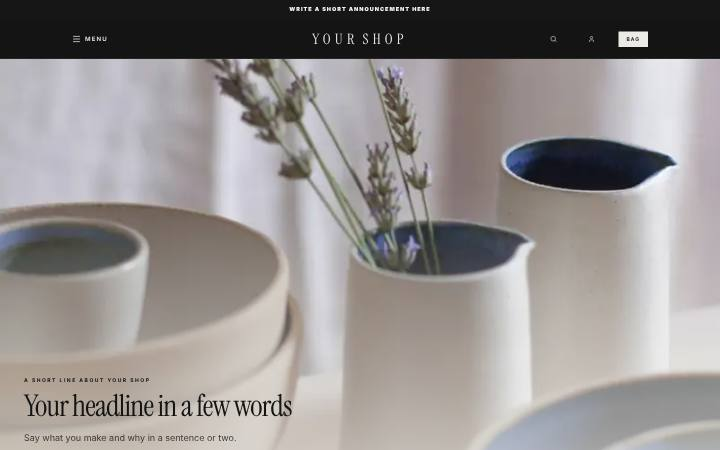
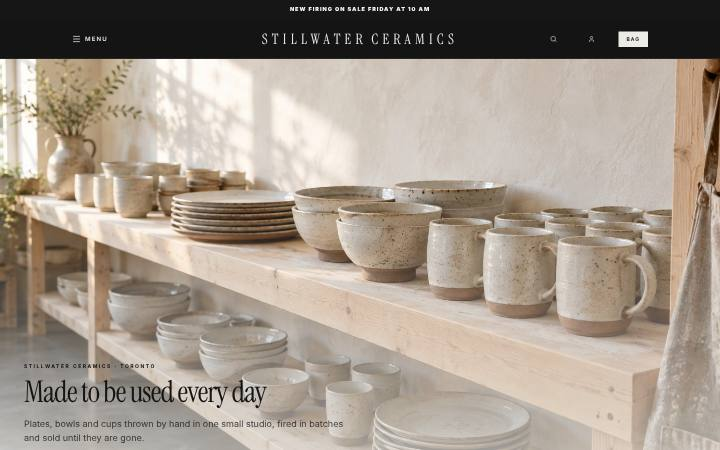
Starters: a matching photo set for each sample shop
Step 3 of the approved starters plan. Catalogue, Gallery, Warehouse,
Larder and Commission each get their own photos, made in one backdrop
and one light per starter, each showing the product it is named after.
Catalogue's old copies of Slow Season's photos are gone. The side-menu
header wraps a long shop name instead of cutting it off. Choose your
website pictures regenerated.

Claude-Session: https://claude.ai/code/session_01VZ5popADiQDpwvEpktGd8h

diff --git a/apps/shop/src/app/admin/studio/themeLibrary.ts b/apps/shop/src/app/admin/studio/themeLibrary.ts
@@ -717,16 +717,16 @@ export const THEME_LIBRARY = [
       starterPages: ["about", "shipping", "contact"],
       sampleBrand: "Margin Editions",
       sampleProducts: [
-        { title: "Field journal", price: 22, photo: "/starters/catalogue/book.jpg", category: "Paper", description: "Pocket-sized with dot-grid pages and a card cover that softens with use. Made in a family bindery." },
-        { title: "Night candle", price: 18, photo: "/starters/catalogue/candle.jpg", category: "Home", description: "Soy wax with cedar and smoke. A small candle for a reading lamp evening, about 25 hours." },
-        { title: "Studio mug", price: 36, photo: "/starters/catalogue/mug.jpg", category: "Kitchen", description: "A tall stoneware mug with a thumb rest, glazed inside and left raw at the foot." },
-        { title: "Reading throw", price: 120, photo: "/starters/catalogue/throw.jpg", category: "Home", description: "A soft wool and cotton throw, a little smaller than most, made for a chair and a book." },
-        { title: "Clay vase", price: 54, photo: "/starters/catalogue/still-life.jpg", category: "Home", description: "Coiled by hand from red clay and burnished smooth. Holds water and a few long stems." },
-        { title: "Collected essays, hardcover", price: 34, photo: "/starters/catalogue/book.jpg", category: "Books", description: "Eighteen short essays on making things by hand, cloth-bound with a printed jacket. 240 pages." },
+        { title: "Field journal", price: 22, photo: "/starters/catalogue/field-journal.jpg", category: "Paper", description: "Pocket-sized with dot-grid pages and a card cover that softens with use. Made in a family bindery." },
+        { title: "Night candle", price: 18, photo: "/starters/catalogue/night-candle.jpg", category: "Home", description: "Soy wax with cedar and smoke. A small candle for a reading lamp evening, about 25 hours." },
+        { title: "Studio mug", price: 36, photo: "/starters/catalogue/studio-mug.jpg", category: "Kitchen", description: "A tall stoneware mug with a thumb rest, glazed inside and left raw at the foot." },
+        { title: "Reading throw", price: 120, photo: "/starters/catalogue/reading-throw.jpg", category: "Home", description: "A soft wool and cotton throw, a little smaller than most, made for a chair and a book." },
+        { title: "Clay vase", price: 54, photo: "/starters/catalogue/clay-vase.jpg", category: "Home", description: "Coiled by hand from red clay and burnished smooth. Holds water and a few long stems." },
+        { title: "Collected essays, hardcover", price: 34, photo: "/starters/catalogue/essays.jpg", category: "Books", description: "Eighteen short essays on making things by hand, cloth-bound with a printed jacket. 240 pages." },
       ],
       sections: {
         heroPage: [
-          { type: "SplitOpeningSection", settings: { eyebrow: "Catalogue No. 14 \u00b7 Winter", title: "Small things,", accentWord: "well made.", body: "A numbered collection of paper, clay and cloth from small studios. Every piece is in stock and ships within two days.", imageUrl: "/starters/catalogue/still-life.jpg", imageAlt: "A clay vase and a field journal on a table", layout: "image-right", ctaText: "Enter the collection", ctaUrl: "/collections/all", captionText: "Clay vase, coiled by hand\nNo. 005" } },
+          { type: "SplitOpeningSection", settings: { eyebrow: "Catalogue No. 14 \u00b7 Winter", title: "Small things,", accentWord: "well made.", body: "A numbered collection of paper, clay and cloth from small studios. Every piece is in stock and ships within two days.", imageUrl: "/starters/catalogue/opening.jpg", imageAlt: "A clay vase and a field journal on a table", layout: "image-right", ctaText: "Enter the collection", ctaUrl: "/collections/all", captionText: "Clay vase, coiled by hand\nNo. 005" } },
           { type: "MarqueeSection", settings: { text: "Ships in two days \u25cf Wrapped by hand \u25cf Free returns for 30 days", separator: "\u25cf", still: true, colorSchemeId: "scheme-inverse", fontSize: 10, speed: 40, uppercase: true, bold: false, letterSpacing: 0.14 } },
           { type: "ProductShowcaseGridSection", settings: { overlayOpacity: 0, eyebrow: "The collection", title: "Everything in the shop", columnsDesktop: 3, columnsMobile: 2, imageAspectRatio: "1:1", showCategoryTag: false, showQuickAdd: true, grainOpacity: 0 } },
         ],
@@ -783,20 +783,20 @@ export const THEME_LIBRARY = [
       starterPages: ["about", "shipping", "contact"],
       sampleBrand: "Stillwater Ceramics",
       sampleProducts: [
-        { title: "Stoneware mug", price: 38, photo: "/samples/home/mug.webp", category: "Cups", description: "Thrown on the wheel and dipped in our speckled oat glaze. Every one is a little different. 300 ml." },
-        { title: "Nesting bowls, set of 3", price: 64, photo: "/samples/home/bowls.webp", category: "Bowls", description: "Three bowls that stack into one, for olives, salt and everything in between. Food and dishwasher safe." },
-        { title: "Espresso cup pair", price: 46, photo: "/samples/home/cups.webp", category: "Cups", description: "Two small cups with no handles, glazed inside and left raw outside so they sit warm in the hand." },
-        { title: "Pillar candle", price: 26, photo: "/samples/home/pillar-candle.webp", category: "Home", description: "Unscented beeswax poured into a tall pillar. Sits on any of our side plates." },
-        { title: "Speckled side plates, set of 4", price: 72, photo: "/samples/home/plates.webp", category: "Plates", description: "Four 20 cm plates with a soft rim, glazed in speckled white. Made for toast, cake and everyday lunches." },
-        { title: "Linen napkins, set of 4", price: 44, photo: "/samples/home/napkins.webp", category: "Table", description: "Stonewashed linen in warm sand, with mitred corners. They soften with every wash." },
+        { title: "Stoneware mug", price: 38, photo: "/starters/gallery/mug.jpg", category: "Cups", description: "Thrown on the wheel and dipped in our speckled oat glaze. Every one is a little different. 300 ml." },
+        { title: "Nesting bowls, set of 3", price: 64, photo: "/starters/gallery/bowls.jpg", category: "Bowls", description: "Three bowls that stack into one, for olives, salt and everything in between. Food and dishwasher safe." },
+        { title: "Espresso cup pair", price: 46, photo: "/starters/gallery/espresso-cups.jpg", category: "Cups", description: "Two small cups with no handles, glazed inside and left raw outside so they sit warm in the hand." },
+        { title: "Pillar candle", price: 26, photo: "/starters/gallery/pillar-candle.jpg", category: "Home", description: "Unscented beeswax poured into a tall pillar. Sits on any of our side plates." },
+        { title: "Speckled side plates, set of 4", price: 72, photo: "/starters/gallery/side-plates.jpg", category: "Plates", description: "Four 20 cm plates with a soft rim, glazed in speckled white. Made for toast, cake and everyday lunches." },
+        { title: "Linen napkins, set of 4", price: 44, photo: "/starters/gallery/napkins.jpg", category: "Table", description: "Stonewashed linen in warm sand, with mitred corners. They soften with every wash." },
       ],
       sections: {
         heroPage: [
-          { type: "ImageBannerSection", settings: { eyebrow: "Stillwater Ceramics \u00b7 Toronto", title: "Made to be used every day", body: "Plates, bowls and cups thrown by hand in one small studio, fired in batches and sold until they are gone.", imageUrl: "/samples/home/opening.webp", imageAlt: "Stoneware bowls and cups on a wooden table", height: "full", contentPosition: "bottom-left", textAlign: "left", overlayOpacity: 0.45, overlayStyle: "fade", colorSchemeId: "scheme-inverse", ctaText: "See the collection", ctaUrl: "/collections/all", secondaryCtaText: "" } },
+          { type: "ImageBannerSection", settings: { eyebrow: "Stillwater Ceramics \u00b7 Toronto", title: "Made to be used every day", body: "Plates, bowls and cups thrown by hand in one small studio, fired in batches and sold until they are gone.", imageUrl: "/starters/gallery/opening.jpg", imageAlt: "Stoneware bowls and cups on a wooden table", height: "full", contentPosition: "bottom-left", textAlign: "left", overlayOpacity: 0.45, overlayStyle: "fade", colorSchemeId: "scheme-inverse", ctaText: "See the collection", ctaUrl: "/collections/all", secondaryCtaText: "" } },
           { type: "BigIntroSection", settings: { eyebrow: "About the studio", title: "Fewer things,\nmade well", body: "Two potters, one kiln and about two hundred pieces a month. Each firing goes on sale on a Friday morning." } },
           { type: "ProductShowcaseGridSection", settings: { overlayOpacity: 0, eyebrow: "This firing", title: "From the latest kiln", productSort: "priceHigh", productLimit: 2, columnsDesktop: 2, columnsMobile: 1, imageAspectRatio: "4:5", showCategoryTag: false, showQuickAdd: false, grainOpacity: 0 } },
           { type: "ProductShowcaseGridSection", settings: { overlayOpacity: 0, eyebrow: "", title: "For the table", productSort: "priceLow", productLimit: 3, columnsDesktop: 3, columnsMobile: 2, imageAspectRatio: "4:5", showCategoryTag: false, showQuickAdd: false, grainOpacity: 0 } },
-          { type: "ShoppablePhotoSection", settings: { title: "Sunday breakfast", body: "The mug, the side plates and a pair of napkins, set for a slow morning. Tap a dot to see each piece.", layout: "words-right", aspect: "portrait", imageUrl: "/samples/home/story.webp", imageAlt: "A breakfast table set with stoneware and linen", items: [{ productSlug: "", x: 34, y: 58 }, { productSlug: "", x: 64, y: 44 }] } },
+          { type: "ShoppablePhotoSection", settings: { title: "Sunday breakfast", body: "The mug, the side plates and a pair of napkins, set for a slow morning. Tap a dot to see each piece.", layout: "words-right", aspect: "portrait", imageUrl: "/starters/gallery/breakfast.jpg", imageAlt: "A breakfast table set with stoneware and linen", items: [{ productSlug: "", x: 24, y: 42 }, { productSlug: "", x: 76, y: 26 }] } },
         ],
         globalSections: [{ type: "NewsletterSection", settings: { title: "Know when the next firing opens", description: "One short note the day before each firing goes on sale.", align: "center" } }],
       },
@@ -817,18 +817,18 @@ export const THEME_LIBRARY = [
       starterPages: ["about", "shipping", "contact"],
       sampleBrand: "Northline Supply",
       sampleProducts: [
-        { title: "Merino crew sweater", price: 120, photo: "/samples/clothing/sweater.webp", category: "Sweaters", description: "Fine merino knitted in Portugal, warm without the bulk. Washes by hand or on wool.", options: [{ name: "Size", values: ["S", "M", "L", "XL"] }] },
-        { title: "Ribbed knit", price: 95, photo: "/samples/clothing/ribbed-knit.webp", category: "Sweaters", description: "A close-fitting rib in a soft wool blend. Wear it alone or under a coat.", options: [{ name: "Size", values: ["S", "M", "L", "XL"] }] },
-        { title: "Cotton crew neck", price: 85, photo: "/samples/clothing/crew.webp", category: "Sweaters", description: "Heavy organic cotton in a relaxed fit, for the days in between seasons.", options: [{ name: "Size", values: ["S", "M", "L", "XL"] }] },
-        { title: "Loopback sweatshirt", price: 68, photo: "/samples/clothing/sweatshirt.webp", category: "Sweatshirts", description: "Thick loopback cotton that keeps its shape wash after wash.", options: [{ name: "Size", values: ["S", "M", "L", "XL"] }] },
-        { title: "Crochet cardigan", price: 160, photo: "/samples/clothing/cardigan.webp", category: "Cardigans", description: "Crocheted by hand in squares of undyed cotton, with wooden buttons.", options: [{ name: "Size", values: ["S", "M", "L", "XL"] }] },
-        { title: "Moss green knit", price: 110, photo: "/samples/clothing/green-knit.webp", category: "Sweaters", description: "A lofty lambswool knit in deep moss, with a slightly cropped body.", options: [{ name: "Size", values: ["S", "M", "L", "XL"] }] },
-        { title: "Chunky fisherman knit", price: 130, photo: "/samples/clothing/chunky-knit.webp", category: "Sweaters", description: "A heavy cable knit in oiled wool that shrugs off rain.", options: [{ name: "Size", values: ["S", "M", "L", "XL"] }] },
-        { title: "Striped tee", price: 38, photo: "/samples/clothing/striped-tee.webp", category: "Tees", description: "A long-sleeved Breton stripe in thick cotton jersey.", options: [{ name: "Size", values: ["S", "M", "L", "XL"] }] },
+        { title: "Merino crew sweater", price: 120, photo: "/starters/warehouse/merino-crew.jpg", category: "Sweaters", description: "Fine merino knitted in Portugal, warm without the bulk. Washes by hand or on wool.", options: [{ name: "Size", values: ["S", "M", "L", "XL"] }] },
+        { title: "Ribbed knit", price: 95, photo: "/starters/warehouse/ribbed-knit.jpg", category: "Sweaters", description: "A close-fitting rib in a soft wool blend. Wear it alone or under a coat.", options: [{ name: "Size", values: ["S", "M", "L", "XL"] }] },
+        { title: "Cotton crew neck", price: 85, photo: "/starters/warehouse/cotton-crew.jpg", category: "Sweaters", description: "Heavy organic cotton in a relaxed fit, for the days in between seasons.", options: [{ name: "Size", values: ["S", "M", "L", "XL"] }] },
+        { title: "Loopback sweatshirt", price: 68, photo: "/starters/warehouse/sweatshirt.jpg", category: "Sweatshirts", description: "Thick loopback cotton that keeps its shape wash after wash.", options: [{ name: "Size", values: ["S", "M", "L", "XL"] }] },
+        { title: "Crochet cardigan", price: 160, photo: "/starters/warehouse/cardigan.jpg", category: "Cardigans", description: "Crocheted by hand in squares of undyed cotton, with wooden buttons.", options: [{ name: "Size", values: ["S", "M", "L", "XL"] }] },
+        { title: "Moss green knit", price: 110, photo: "/starters/warehouse/moss-knit.jpg", category: "Sweaters", description: "A lofty lambswool knit in deep moss, with a slightly cropped body.", options: [{ name: "Size", values: ["S", "M", "L", "XL"] }] },
+        { title: "Chunky fisherman knit", price: 130, photo: "/starters/warehouse/fisherman-knit.jpg", category: "Sweaters", description: "A heavy cable knit in oiled wool that shrugs off rain.", options: [{ name: "Size", values: ["S", "M", "L", "XL"] }] },
+        { title: "Striped tee", price: 38, photo: "/starters/warehouse/striped-tee.jpg", category: "Tees", description: "A long-sleeved Breton stripe in thick cotton jersey.", options: [{ name: "Size", values: ["S", "M", "L", "XL"] }] },
       ],
       sections: {
         heroPage: [
-          { type: "SplitOpeningSection", settings: { eyebrow: "New knits every Thursday", title: "Knitwear for the long cold", body: "Over 200 sweaters, cardigans and tees, in stock and sent out the same day.", accentWord: "", ctaText: "Shop the new things", ctaUrl: "/collections/all", imageUrl: "/samples/clothing/opening.webp", imageAlt: "A model in a chunky knit sweater", layout: "image-right", titleSizePx: 88, titleSizePxMobile: 52 } },
+          { type: "SplitOpeningSection", settings: { eyebrow: "New knits every Thursday", title: "Knitwear for the long cold", body: "Over 200 sweaters, cardigans and tees, in stock and sent out the same day.", accentWord: "", ctaText: "Shop the new things", ctaUrl: "/collections/all", imageUrl: "/starters/warehouse/opening.jpg", imageAlt: "A model in a chunky knit sweater", layout: "image-right", titleSizePx: 88, titleSizePxMobile: 52 } },
           { type: "CollectionListSection", settings: { title: "Shop by category", columns: 4, align: "left", containerWidth: "full", mobileColumns: 2 } },
           { type: "MarqueeSection", settings: { text: "New in every Thursday ✳ Free returns ✳ Sent out the same day", separator: "✳", still: false, fontSize: 36, speed: 30, uppercase: true, bold: true, letterSpacing: 0, background: "#111111", color: "#ffe14a" } },
           { type: "ProductShowcaseGridSection", settings: { overlayOpacity: 0, eyebrow: "", title: "New this week", productLimit: 8, columnsDesktop: 4, columnsMobile: 2, imageAspectRatio: "4:5", showCategoryTag: true, showQuickAdd: true, showFormatLine: false, grainOpacity: 0, tagBg: "#ffe14a", tagText: "#111111", containerWidth: "full" } },
@@ -837,7 +837,7 @@ export const THEME_LIBRARY = [
             { title: "Free returns", body: "Thirty days to send anything back, with a prepaid label in the box." },
             { title: "Real people", body: "Questions about fit? Write to us and someone on the team answers within a day." },
           ] } },
-          { type: "ImageWithTextSection", settings: { eyebrow: "", title: "Why we make less", body: "We make each knit in one run and never discount it later. Fewer pieces, better wool, fair pay at the mill.", imageUrl: "/samples/clothing/story.webp", imageAlt: "Folded sweaters on a shelf", layout: "text-left", ctaText: "Our story", ctaUrl: "/page/about", colorSchemeId: "scheme-accent" } },
+          { type: "ImageWithTextSection", settings: { eyebrow: "", title: "Why we make less", body: "We make each knit in one run and never discount it later. Fewer pieces, better wool, fair pay at the mill.", imageUrl: "/starters/warehouse/shelves.jpg", imageAlt: "Folded sweaters on a shelf", layout: "text-left", ctaText: "Our story", ctaUrl: "/page/about", colorSchemeId: "scheme-accent" } },
         ],
         globalSections: [{ type: "NewsletterSection", settings: { title: "Hear about new arrivals first", description: "A Thursday note with the week's new knits. Unsubscribe any time.", align: "left", colorSchemeId: "scheme-inverse" } }],
       },
@@ -859,29 +859,29 @@ export const THEME_LIBRARY = [
       starterPages: ["about", "shipping", "contact"],
       sampleBrand: "Rye & Salt",
       sampleProducts: [
-        { title: "Country sourdough", price: 9, photo: "/samples/food/sourdough.webp", category: "Bread", description: "Slow-proved for 36 hours with stone-ground flour, baked dark. Keeps four days in a bag." },
-        { title: "Espresso roast beans", price: 19, photo: "/samples/food/coffee.webp", category: "Coffee", description: "A chocolatey roast from one farm in Huila, Colombia, roasted on Mondays. 340 g.", options: [{ name: "Grind", values: ["Whole bean", "Espresso", "Filter"] }] },
-        { title: "Cold-pressed olive oil", price: 24, photo: "/samples/food/olive-oil.webp", category: "Pantry", description: "Early-harvest oil from a family grove in Crete, grassy and peppery. 500 ml tin." },
-        { title: "Strawberry jam", price: 11, photo: "/samples/food/jam.webp", category: "Pantry", description: "Ontario strawberries cooked in small batches with less sugar than most. 250 ml jar." },
-        { title: "Breakfast tea", price: 14, photo: "/samples/food/loose-tea.webp", category: "Tea", description: "A strong loose-leaf Assam blend that stands up to milk. 100 g, about 40 cups." },
-        { title: "70% dark chocolate", price: 8, photo: "/samples/food/chocolate.webp", category: "Sweets", description: "A bar of single-origin chocolate with a little sea salt. 80 g." },
-        { title: "Seeded country loaf", price: 10, photo: "/samples/food/country-loaf.webp", category: "Bread", description: "Our country dough with sunflower, flax and pumpkin seeds folded through." },
-        { title: "Baking chocolate", price: 12, photo: "/samples/food/baking-chocolate.webp", category: "Pantry", description: "Chopped 64% chocolate for cookies and cakes, the same one we bake with. 300 g." },
+        { title: "Country sourdough", price: 9, photo: "/starters/larder/sourdough.jpg", category: "Bread", description: "Slow-proved for 36 hours with stone-ground flour, baked dark. Keeps four days in a bag." },
+        { title: "Espresso roast beans", price: 19, photo: "/starters/larder/coffee.jpg", category: "Coffee", description: "A chocolatey roast from one farm in Huila, Colombia, roasted on Mondays. 340 g.", options: [{ name: "Grind", values: ["Whole bean", "Espresso", "Filter"] }] },
+        { title: "Cold-pressed olive oil", price: 24, photo: "/starters/larder/olive-oil.jpg", category: "Pantry", description: "Early-harvest oil from a family grove in Crete, grassy and peppery. 500 ml tin." },
+        { title: "Strawberry jam", price: 11, photo: "/starters/larder/jam.jpg", category: "Pantry", description: "Ontario strawberries cooked in small batches with less sugar than most. 250 ml jar." },
+        { title: "Breakfast tea", price: 14, photo: "/starters/larder/tea.jpg", category: "Tea", description: "A strong loose-leaf Assam blend that stands up to milk. 100 g, about 40 cups." },
+        { title: "70% dark chocolate", price: 8, photo: "/starters/larder/chocolate.jpg", category: "Sweets", description: "A bar of single-origin chocolate with a little sea salt. 80 g." },
+        { title: "Seeded country loaf", price: 10, photo: "/starters/larder/seeded-loaf.jpg", category: "Bread", description: "Our country dough with sunflower, flax and pumpkin seeds folded through." },
+        { title: "Baking chocolate", price: 12, photo: "/starters/larder/baking-chocolate.jpg", category: "Pantry", description: "Chopped 64% chocolate for cookies and cakes, the same one we bake with. 300 g." },
       ],
       sections: {
         heroPage: [
-          { type: "SplitOpeningSection", settings: { eyebrow: "Bakery and pantry \u00b7 since 2016", title: "Bread worth getting up for.", accentWord: "", body: "Sourdough baked at 4 am, coffee roasted on Mondays and a pantry of good things, delivered across the city.", ctaText: "Shop the shelf", ctaUrl: "/collections/all", imageUrl: "/samples/food/opening.webp", imageAlt: "Fresh sourdough loaves on a wooden board", layout: "image-right", titleSizePx: 76, titleSizePxMobile: 44, colorSchemeId: "scheme-accent", cornerRadius: "xl", outerGap: 32 } },
+          { type: "SplitOpeningSection", settings: { eyebrow: "Bakery and pantry \u00b7 since 2016", title: "Bread worth getting up for.", accentWord: "", body: "Sourdough baked at 4 am, coffee roasted on Mondays and a pantry of good things, delivered across the city.", ctaText: "Shop the shelf", ctaUrl: "/collections/all", imageUrl: "/starters/larder/opening.jpg", imageAlt: "Fresh sourdough loaves on a wooden board", layout: "image-right", titleSizePx: 76, titleSizePxMobile: 44, colorSchemeId: "scheme-accent", cornerRadius: "xl", outerGap: 32 } },
           { type: "MulticolumnSection", settings: { title: "", columns: 6, align: "center", containerWidth: "full", mobileColumns: 3, items: [
-            { title: "New in", body: "", imageUrl: "/samples/food/sourdough.webp" },
-            { title: "Best sellers", body: "", imageUrl: "/samples/food/jam.webp" },
-            { title: "Gifts", body: "", imageUrl: "/samples/food/olive-oil.webp" },
-            { title: "Seasonal", body: "", imageUrl: "/samples/food/coffee.webp" },
-            { title: "Small batch", body: "", imageUrl: "/samples/food/loose-tea.webp" },
-            { title: "Sale", body: "", imageUrl: "/samples/food/chocolate.webp" },
+            { title: "New in", body: "", imageUrl: "/starters/larder/sourdough.jpg" },
+            { title: "Best sellers", body: "", imageUrl: "/starters/larder/jam.jpg" },
+            { title: "Gifts", body: "", imageUrl: "/starters/larder/olive-oil.jpg" },
+            { title: "Seasonal", body: "", imageUrl: "/starters/larder/coffee.jpg" },
+            { title: "Small batch", body: "", imageUrl: "/starters/larder/tea.jpg" },
+            { title: "Sale", body: "", imageUrl: "/starters/larder/chocolate.jpg" },
           ] } },
           { type: "ProductShowcaseGridSection", settings: { overlayOpacity: 0, eyebrow: "This week", title: "On the shelf", productLimit: 8, columnsDesktop: 4, columnsMobile: 2, imageAspectRatio: "4:3", showCategoryTag: false, showQuickAdd: true, showFormatLine: false, grainOpacity: 0, containerWidth: "full" } },
-          { type: "ImageWithTextSection", settings: { eyebrow: "Gifts", title: "A box of good things", body: "Bread, jam, tea and chocolate in a kraft box with a handwritten card. We deliver it anywhere in the city.", imageUrl: "/samples/food/banner.webp", imageAlt: "A gift box of jam, tea and chocolate", layout: "text-left", ctaText: "See gift ideas", ctaUrl: "/collections/all", colorSchemeId: "scheme-inverse", cornerRadius: "xl", outerGap: 32 } },
-          { type: "ImageWithTextSection", settings: { eyebrow: "Our bakery", title: "Baked at 4 am, every morning", body: "Mira and Tomas started Rye & Salt with one oven and a sourdough starter from Mira's grandmother. We still bake every loaf by hand before the city wakes up.", imageUrl: "/samples/food/story.webp", imageAlt: "A baker shaping dough in the kitchen", layout: "image-left", ctaText: "Read our story", ctaUrl: "/page/about" } },
+          { type: "ImageWithTextSection", settings: { eyebrow: "Gifts", title: "A box of good things", body: "Bread, jam, tea and chocolate in a kraft box with a handwritten card. We deliver it anywhere in the city.", imageUrl: "/starters/larder/gift-box.jpg", imageAlt: "A gift box of jam, tea and chocolate", layout: "text-left", ctaText: "See gift ideas", ctaUrl: "/collections/all", colorSchemeId: "scheme-inverse", cornerRadius: "xl", outerGap: 32 } },
+          { type: "ImageWithTextSection", settings: { eyebrow: "Our bakery", title: "Baked at 4 am, every morning", body: "Mira and Tomas started Rye & Salt with one oven and a sourdough starter from Mira's grandmother. We still bake every loaf by hand before the city wakes up.", imageUrl: "/starters/larder/baker.jpg", imageAlt: "A baker shaping dough in the kitchen", layout: "image-left", ctaText: "Read our story", ctaUrl: "/page/about" } },
           { type: "FAQSection", settings: { title: "Good to know", showSearch: false, items: [
             { question: "When do you deliver?", answer: "Every day but Monday, between 8 am and noon. Order by 8 pm for next-day delivery anywhere in the city." },
             { question: "How long does it keep?", answer: "Our bread keeps four days in a paper bag, or three months in the freezer. Jam keeps a month once opened." },
@@ -973,20 +973,20 @@ export const THEME_LIBRARY = [
       starterPages: ["about", "shipping", "contact"],
       sampleBrand: "Hollis & Pine Joinery",
       sampleProducts: [
-        { title: "Oak dining chair", price: 420, photo: "/samples/made/chair.webp", category: "Chairs", description: "Solid white oak joined with pegged mortise and tenon, finished in hard wax oil. Made to order in six weeks.", options: [{ name: "Wood", values: ["Oak", "Walnut"] }] },
-        { title: "Floating wall shelf", price: 160, photo: "/samples/made/wall-shelf.webp", category: "Shelves", description: "A 90 cm shelf in ash with a hidden steel bracket. Holds a full row of books." },
-        { title: "Turned stool", price: 220, photo: "/samples/made/stool.webp", category: "Stools", description: "A three-legged stool with a carved seat, turned on the lathe from one piece of cherry." },
-        { title: "Hall bench", price: 380, photo: "/samples/made/bench.webp", category: "Benches", description: "A long, narrow bench for the hallway, with a shelf below for shoes. 120 cm." },
-        { title: "Spindle-back chair", price: 360, photo: "/samples/made/spindle-chair.webp", category: "Chairs", description: "A light chair with eight steam-bent spindles and a woven paper-cord seat." },
-        { title: "Round dining table", price: 1400, photo: "/samples/made/round-table.webp", category: "Tables", description: "A pedestal table that seats four, in solid oak with a turned base. Delivered and set up by us.", options: [{ name: "Size", values: ["90 cm", "120 cm"] }] },
+        { title: "Oak dining chair", price: 420, photo: "/starters/commission/oak-chair.jpg", category: "Chairs", description: "Solid white oak joined with pegged mortise and tenon, finished in hard wax oil. Made to order in six weeks.", options: [{ name: "Wood", values: ["Oak", "Walnut"] }] },
+        { title: "Floating wall shelf", price: 160, photo: "/starters/commission/wall-shelf.jpg", category: "Shelves", description: "A 90 cm shelf in ash with a hidden steel bracket. Holds a full row of books." },
+        { title: "Turned stool", price: 220, photo: "/starters/commission/stool.jpg", category: "Stools", description: "A three-legged stool with a carved seat, turned on the lathe from one piece of cherry." },
+        { title: "Hall bench", price: 380, photo: "/starters/commission/hall-bench.jpg", category: "Benches", description: "A long, narrow bench for the hallway, with a shelf below for shoes. 120 cm." },
+        { title: "Spindle-back chair", price: 360, photo: "/starters/commission/spindle-chair.jpg", category: "Chairs", description: "A light chair with eight steam-bent spindles and a woven paper-cord seat." },
+        { title: "Round dining table", price: 1400, photo: "/starters/commission/round-table.jpg", category: "Tables", description: "A pedestal table that seats four, in solid oak with a turned base. Delivered and set up by us.", options: [{ name: "Size", values: ["90 cm", "120 cm"] }] },
       ],
       sections: {
         heroPage: [
-          { type: "SplitOpeningSection", settings: { eyebrow: "Furniture made to order", title: "Built for your room, by hand.", accentWord: "", body: "Chairs, tables and shelves in solid oak and walnut, made to your measurements in our workshop in about eight weeks.", ctaText: "Start an enquiry", ctaUrl: "/page/contact", imageUrl: "/samples/made/opening.webp", imageAlt: "An oak chair in the workshop", layout: "image-right", titleSizePx: 72, titleSizePxMobile: 40 } },
+          { type: "SplitOpeningSection", settings: { eyebrow: "Furniture made to order", title: "Built for your room, by hand.", accentWord: "", body: "Chairs, tables and shelves in solid oak and walnut, made to your measurements in our workshop in about eight weeks.", ctaText: "Start an enquiry", ctaUrl: "/page/contact", imageUrl: "/starters/commission/opening.jpg", imageAlt: "An oak chair in the workshop", layout: "image-right", titleSizePx: 72, titleSizePxMobile: 40 } },
           { type: "GallerySection", settings: { title: "Recent work", subtitle: "A few pieces from this year, each made for one home.", columns: 3, align: "left", items: [
-            { imageUrl: "/samples/made/round-table.webp", alt: "A round oak dining table" },
-            { imageUrl: "/samples/made/pedestal-table.webp", alt: "A walnut pedestal table" },
-            { imageUrl: "/samples/made/spindle-chair.webp", alt: "A spindle-back chair" },
+            { imageUrl: "/starters/commission/round-table.jpg", alt: "A round oak dining table" },
+            { imageUrl: "/starters/commission/side-table.jpg", alt: "A walnut side table on a turned base" },
+            { imageUrl: "/starters/commission/spindle-chair.jpg", alt: "A spindle-back chair" },
           ] } },
           { type: "MulticolumnSection", settings: { title: "How it works", columns: 3, align: "left", colorSchemeId: "scheme-inverse", mobileColumns: 1, items: [
             { title: "1. Tell us what you need", body: "Send a few photos of the room, rough sizes and a budget. We reply within two days." },

diff --git a/apps/shop/src/demoShop/starterLibrary.ts b/apps/shop/src/demoShop/starterLibrary.ts
@@ -15,7 +15,7 @@ export type StarterKind = "products" | "services" | "books";
 export const STARTER_INFO: Record<string, { kinds: StarterKind[]; bestFor: string[]; sells: DemoKind; cover?: string }> = {
   "juniper-slow-season": { kinds: ["products"], bestFor: ["Home goods", "Clothing", "Seasonal collections"], sells: "home" },
   // Catalogue opens on the same still life as Slow Season, so its card shows one of its own products instead.
-  "juniper-catalogue": { kinds: ["products", "books"], bestFor: ["Books and prints", "Collections", "Small ranges"], sells: "books", cover: "/starters/catalogue/candle.jpg" },
+  "juniper-catalogue": { kinds: ["products", "books"], bestFor: ["Books and prints", "Collections", "Small ranges"], sells: "books", cover: "/starters/catalogue/opening.jpg" },
   "aurel-editorial": { kinds: ["products", "books"], bestFor: ["Clothing", "Design objects", "Editorial shops"], sells: "clothing" },
   "starter-gallery": { kinds: ["products", "books"], bestFor: ["A few products", "Makers", "Art and prints"], sells: "home" },
   "starter-warehouse": { kinds: ["products"], bestFor: ["A big range", "Clothing", "Shops with many categories"], sells: "clothing" },

diff --git a/apps/shop/src/app/features/site/headerLayout.ts b/apps/shop/src/app/features/site/headerLayout.ts
@@ -47,6 +47,8 @@ export const RAIL_HEADER_CSS = `@media (min-width:${RAIL_MIN_WIDTH}px){`
   + `header[data-hdr-layout="rail"] .fm-hdr-row>div{flex:0 0 auto !important;flex-direction:column;align-items:flex-start !important;justify-content:flex-start !important;gap:36px !important;order:0 !important;}`
   + `header[data-hdr-layout="rail"] .fm-hdr-row>div:last-child{flex-direction:row;flex-wrap:wrap;gap:16px !important;}`
   + `header[data-hdr-layout="rail"] nav[data-ga-menu="categories"]{flex-direction:column;align-items:flex-start;row-gap:14px;column-gap:0 !important;white-space:normal;}`
+  // A long shop name wraps inside the rail instead of running out under the page ("Hollis & Pine Joinery").
+  + `header[data-hdr-layout="rail"] .fm-logo{flex-wrap:wrap;row-gap:0.15em;}header[data-hdr-layout="rail"] .fm-logo,header[data-hdr-layout="rail"] .fm-logo *{white-space:normal !important;overflow-wrap:break-word;max-width:100%;}`
   + `}`;
 
 /** The header layout a design draws. */

diff --git a/apps/shop/src/app/admin/updates/2026-11-26-20-starter-photo-sets.ts b/apps/shop/src/app/admin/updates/2026-11-26-20-starter-photo-sets.ts
@@ -1,0 +1,11 @@
+import type { AppUpdate } from "../appUpdates";
+
+export default {
+  id: "starter-photo-sets",
+  date: "2026-11-26",
+  title: "Matching photos for every starter website",
+  summary: "Catalogue, Gallery, Warehouse, Larder and Commission now each have their own set of photos, taken in one light and one setting, so every product in a starter looks like it belongs to the same shop. Each photo shows exactly the product it's named after. A long shop name in the side menu now wraps onto a second line instead of being cut off.",
+  links: [
+    { label: "Choose your website", tab: "design" },
+  ],
+} satisfies AppUpdate;

diff --git a/apps/shop/docs/agent-notes/studio.md b/apps/shop/docs/agent-notes/studio.md
@@ -1161,3 +1161,15 @@ name and products; `withOwnBanner` (sells.ts) swaps the starter's banner for the
 the before-shop designer, because a banner is not a section and carries no Sample mark. The changed banners shipped as a
 new release of Slow Season, Aurel, Gallery, Warehouse and Larder (`starterVersions.ts`, control room `starterSites.js`).
 `sampleShops.test.ts` replaced `neutralStarters.test.ts`.
+
+## Starter photo sets (26 November 2026, plan "Starters vs Shopify and Squarespace", step 3)
+
+Catalogue, Gallery, Warehouse, Larder and Commission each have their own photo folder under `public/starters/<name>/`,
+made with Figma's AI image generation in one backdrop and one light per starter (Catalogue: cool grey paper, hard side
+light; Gallery: limestone plaster, window light; Warehouse: folded flat on warm grey; Larder: oak table, morning light;
+Commission: pale oak floor and limewashed wall). Each photo shows the product named in `sampleProducts`. They no longer use
+the shared `public/samples/` sets, which stay for looks without a sample shop and for Salon and Workshop.
+`public/starters/README.md` lists where every folder came from; keep product photos under about 150 KB. Catalogue's old
+files were copies of Slow Season's and are gone. The rail header now wraps a long shop name (`RAIL_HEADER_CSS`), found
+with "Hollis & Pine Joinery". Pictures on Choose your website were regenerated with `scripts/starter-thumbs.mjs`
+(`CHROMIUM_PATH` set to the container's Chromium).

diff --git a/apps/shop/public/starters/README.md b/apps/shop/public/starters/README.md
@@ -1,0 +1,19 @@
+# Starter photos
+
+The photos in these folders belong to the starter websites' made-up sample shops (`THEME_LIBRARY` in
+`src/app/admin/studio/themeLibrary.ts`). They were made for the platform with Figma's AI image generation, one matching
+set per starter, so they carry no outside licence and never show a real brand or person. `thumbs/` holds the "Choose your
+website" pictures (`scripts/starter-thumbs.mjs`).
+
+| Folder | Starter | Made |
+| --- | --- | --- |
+| aurel/ | Aurel (Atelier Ondine) | 24 November 2026 |
+| slow-season/ | Slow Season (Fallow House) | 24 November 2026 |
+| catalogue/ | Catalogue (Margin Editions) | 26 November 2026 |
+| gallery/ | Gallery (Stillwater Ceramics) | 26 November 2026 |
+| warehouse/ | Warehouse (Northline Supply) | 26 November 2026 |
+| larder/ | Larder (Rye & Salt) | 26 November 2026 |
+| commission/ | Commission (Hollis & Pine Joinery) | 26 November 2026 |
+
+Keep each product photo under about 150 KB (an opening photo under about 260 KB). Salon and Workshop use the licensed
+sample sets in `public/samples/` (see its LICENSE.md).

diff --git a/apps/shop/src/app/admin/studio/CLAUDE.md b/apps/shop/src/app/admin/studio/CLAUDE.md
@@ -83,3 +83,4 @@ Details of each feature live in [`docs/agent-notes/studio.md`](../../../../docs/
 - Starters in three kinds, and nine distinct openings (26 November 2026, one website picker plan step 1)
 - Calmer Studio: no Designs (26 November 2026, one website picker plan step 3)
 - Starter sample shops (26 November 2026, plan "Starters vs Shopify and Squarespace", step 2)
+- Starter photo sets (26 November 2026, plan "Starters vs Shopify and Squarespace", step 3)
